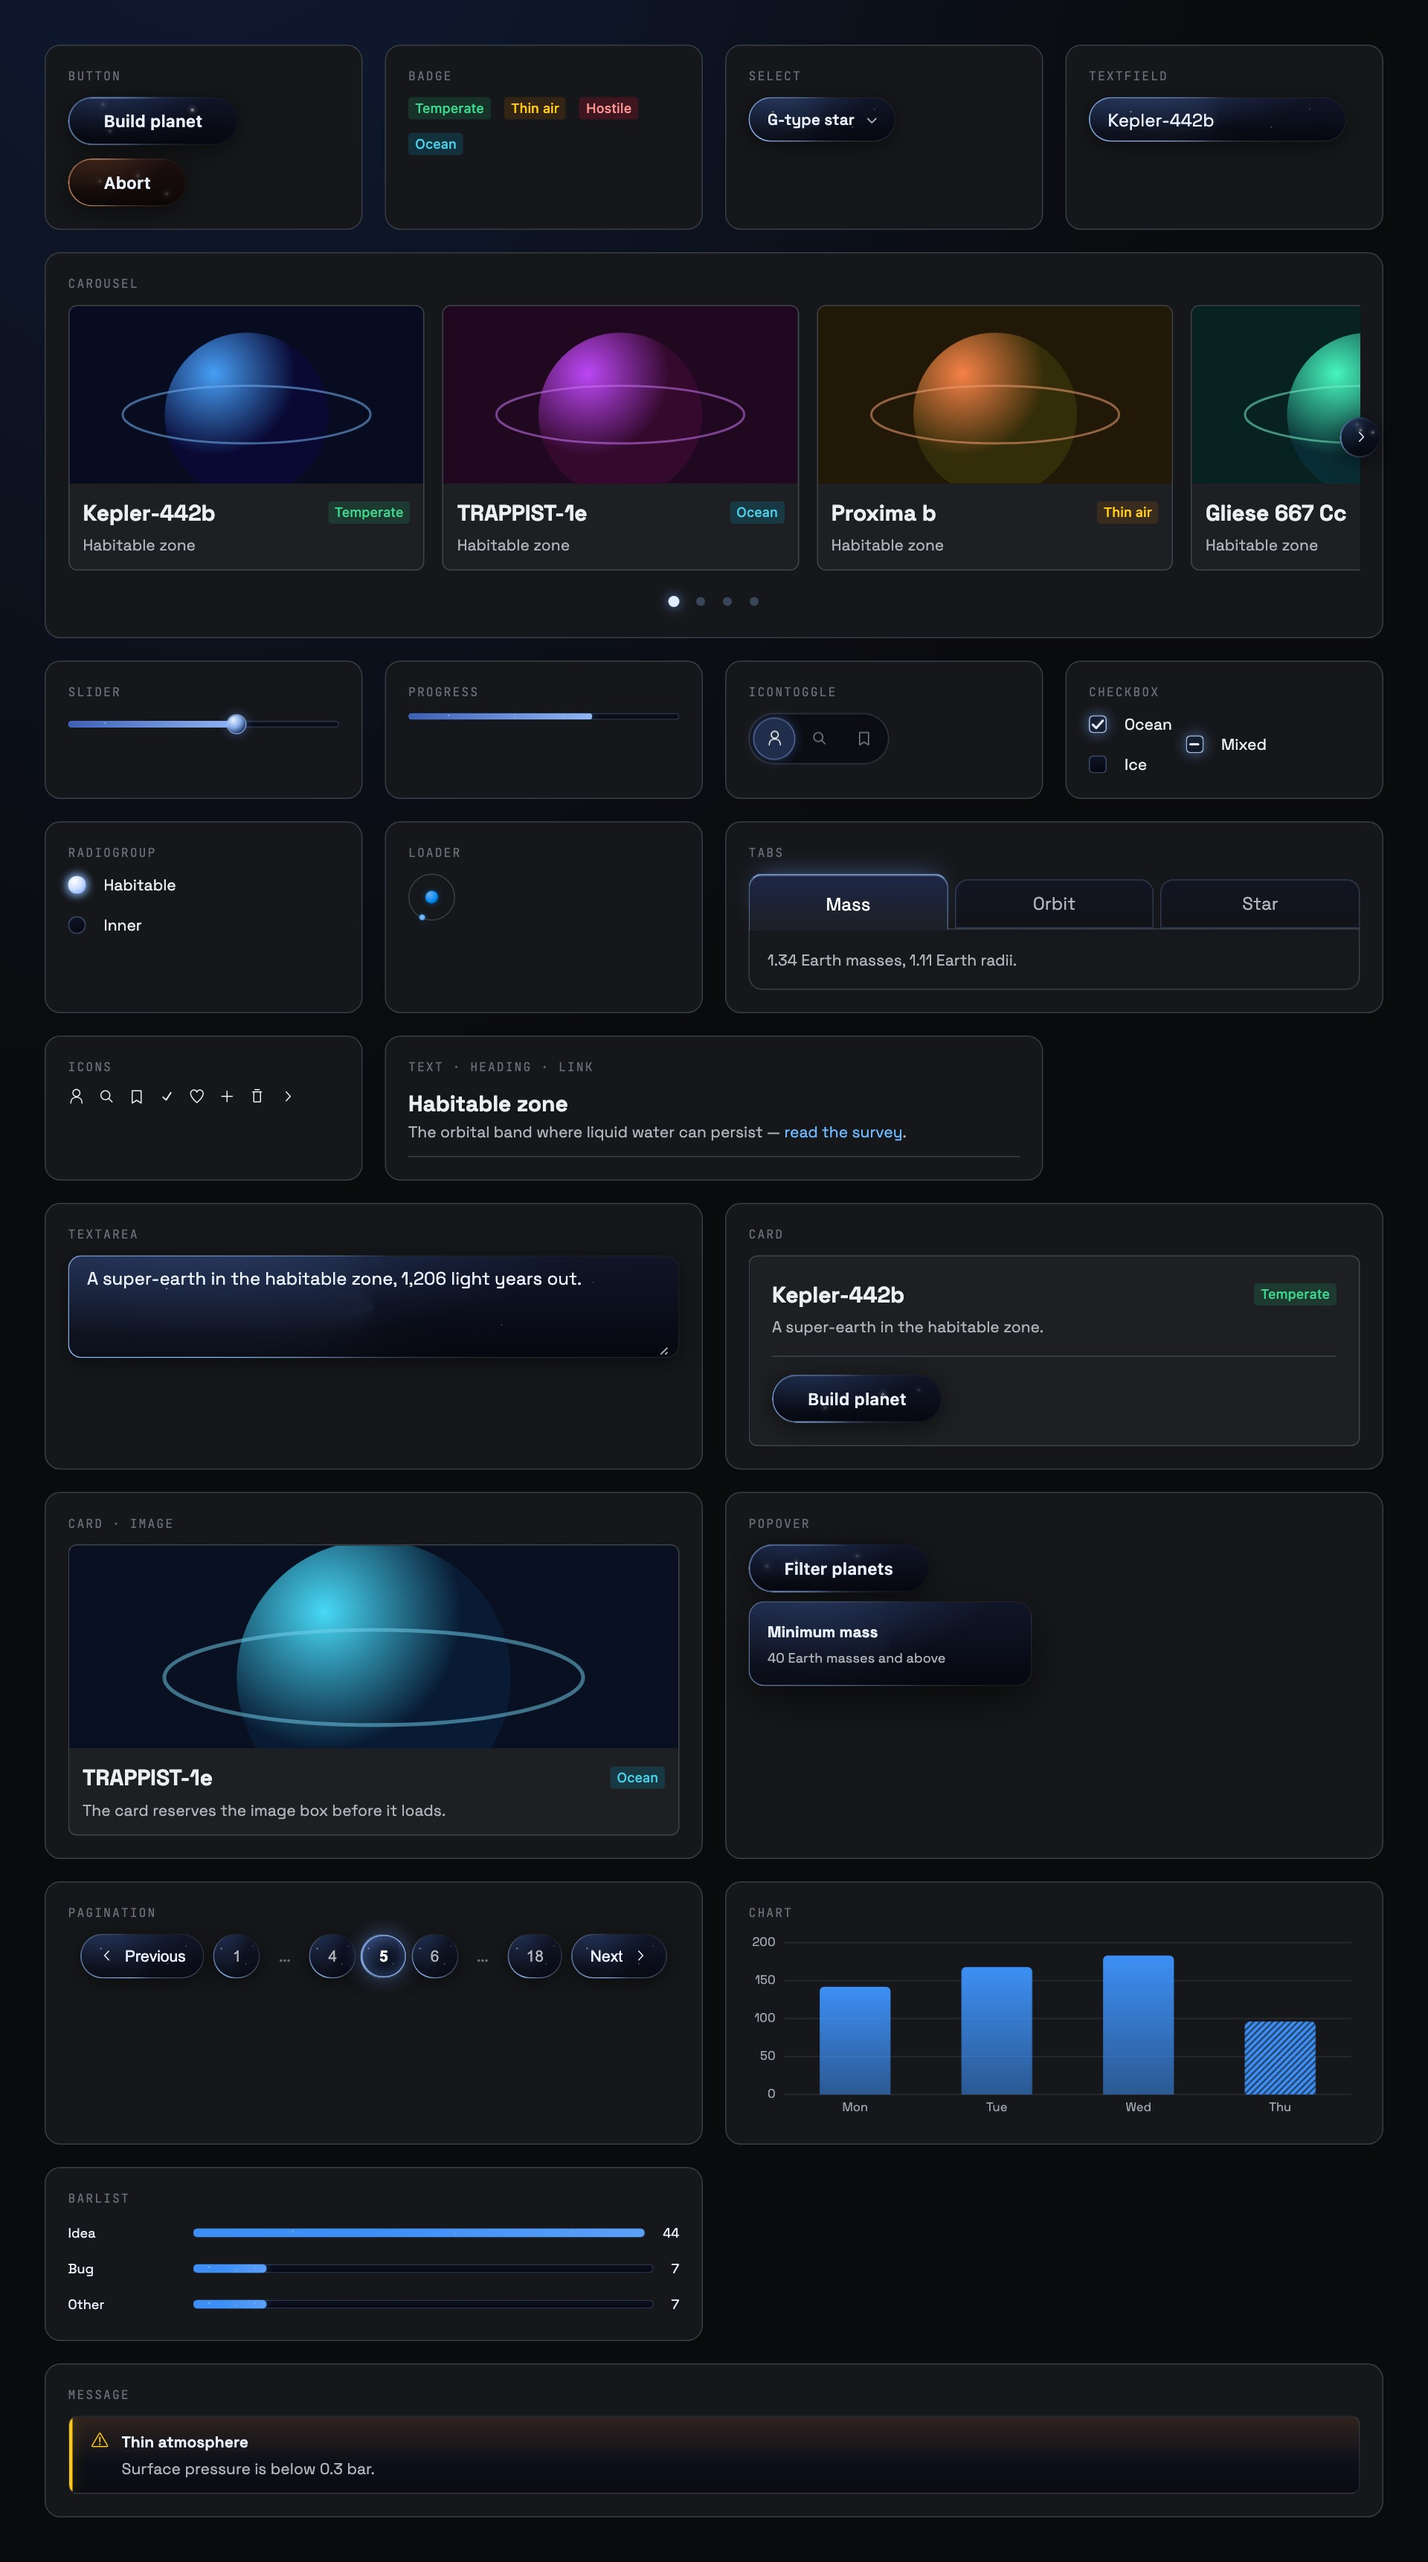
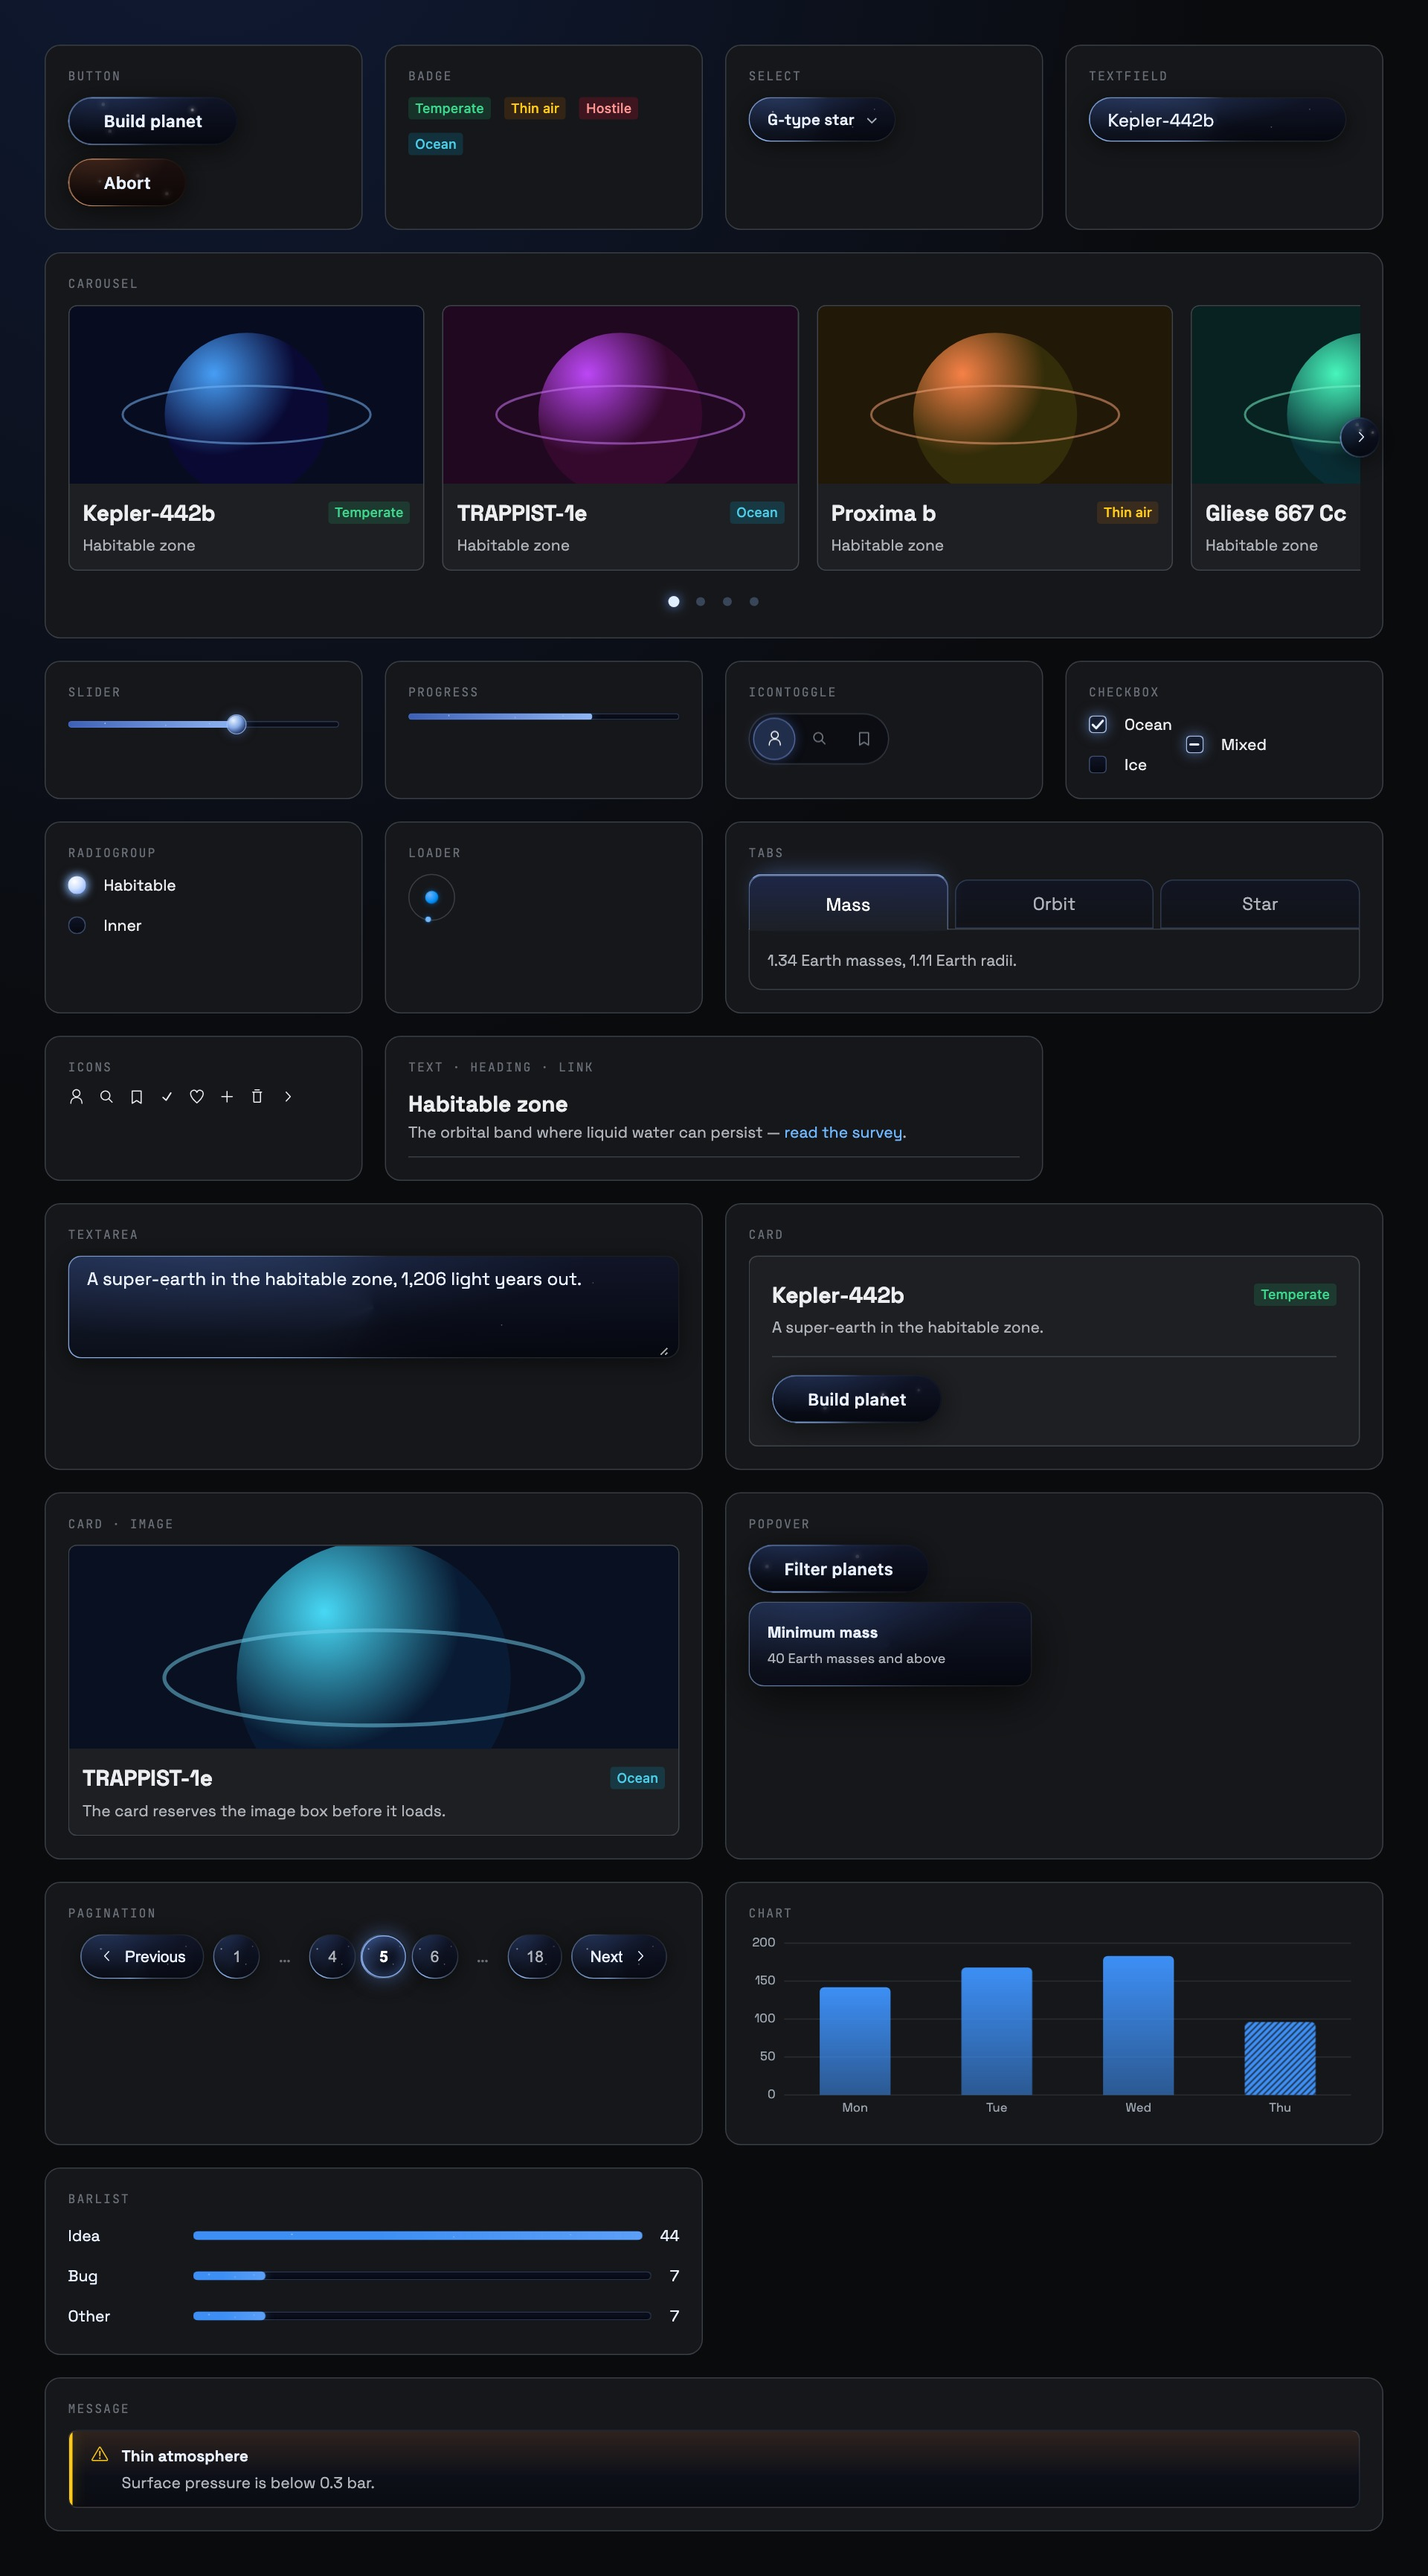
Set BarList's rows back to the 14/20 step
Label and figure alike, the size the text in every other control is set
at. The pie's legend keeps the smaller step, where the ring carries the
comparison and the list beside it is a key.

diff --git a/packages/space-ui/src/components/BarList.module.scss b/packages/space-ui/src/components/BarList.module.scss
@@ -25,11 +25,10 @@
   gap: calc(var(--sp-grid-base-size, 8px) * 2);
   width: 100%;
   padding: calc(var(--sp-grid-base-size, 8px) / 2) 0;
-  /* The whole row on the 12/16 step: a list of results is read as a set, and
-     the smaller step keeps the bars — the thing being compared — the loudest
-     part of it. */
-  font-size: var(--sp-font-xs);
-  line-height: 16px;
+  /* The library's 14/20 step, label and figure alike — the same size the
+     text in every other control is set at. */
+  font-size: var(--sp-font-sm);
+  line-height: 20px;
   color: var(--sp-glass-text);
   text-align: start;
 }
